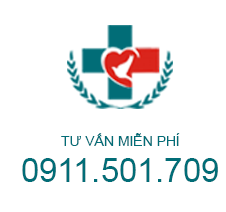
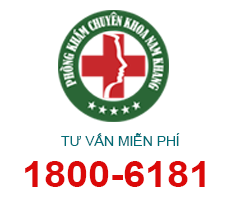
ok

Changed region(s): [[0.2478, 0.0283, 0.7743, 0.5943], [0.0929, 0.7358, 0.9912, 0.9057]]

diff --git a/public/js/desktop/right.js b/public/js/desktop/right.js
@@ -1,6 +1,6 @@
 // JavaScript Document
 
-document.writeln("<script type=\"text/javascript\" language=\"javascript\" src=\"http://localhost/cty_xuongkhophn.net/public/js/desktop/index.js\"></script>");
+document.writeln("<script type=\"text/javascript\" language=\"javascript\" src=\"http://www.phongkhamnamkhang.net/public/js/desktop/index.js\"></script>");
 $(function(){$("#sidebar").fix({float:'left',minStatue:false,skin:'green',durationTime:1000})});
 /**/
 document.writeln("<style>");
@@ -12,19 +12,19 @@ document.writeln("#sidebar ul li i{ display:inline-block; width:72px; height:72p
 document.writeln("#sidebar ul li i.top{ width:72px; height:72px; margin-top:0}");
 document.writeln("#sidebar ul li .ht{width:72px; height:72px; position:absolute; right:-350px; background:#00F; top:0px; opacity:0; display:none}");
 document.writeln("#sidebar ul li .ht_iphone,#sidebar ul li .ht_weixin{width:226px;height:217px;top:-73px}");
-document.writeln("#sidebar ul li .ht_iphone{ background:url(http://localhost/cty_xuongkhophn.net/public/images/global/advleft/dhh.png) no-repeat}");
-document.writeln("#sidebar ul li .ht_weixin{ background:url(http://localhost/cty_xuongkhophn.net/public/images/global/advleft/wxh.png) no-repeat; top:-83px}");
-document.writeln(".top1{ background:url(http://localhost/cty_xuongkhophn.net/public/images/global/advleft/top.png) no-repeat;}");
-document.writeln(".dx{ background:url(http://localhost/cty_xuongkhophn.net/public/images/global/advleft/dx.png) no-repeat center center;}");
-document.writeln(".dh{ background:url(http://localhost/cty_xuongkhophn.net/public/images/global/advleft/dh.png) no-repeat center center;}");
-document.writeln(".qq{ background:url(http://localhost/cty_xuongkhophn.net/public/images/global/advleft/qq.png) no-repeat center center}");
-document.writeln(".dt{ background:url(http://localhost/cty_xuongkhophn.net/public/images/global/advleft/dt.png) no-repeat center center}");
-document.writeln(".wx{ background:url(http://localhost/cty_xuongkhophn.net/public/images/global/advleft/wx.png) no-repeat center center}");
-document.writeln(".wb{ background:url(http://localhost/cty_xuongkhophn.net/public/images/global/advleft/wb.png) no-repeat center center}");
-document.writeln(".dt_s{ background:url(http://localhost/cty_xuongkhophn.net/public/images/global/advleft/dt_s.png) no-repeat center center; width:31px; height:41px}");
-document.writeln(".qq_s{ background:url(http://localhost/cty_xuongkhophn.net/public/images/global/advleft/qq_s.png) no-repeat center center; width:31px; height:41px}");
-document.writeln(".dx_s{ background:url(http://localhost/cty_xuongkhophn.net/public/images/global/advleft/dx_s.png) no-repeat center center; width:44px; height:38px}");
-document.writeln(".wb_s{ background:url(http://localhost/cty_xuongkhophn.net/public/images/global/advleft/wb_s.png) no-repeat center center; width:44px; height:36px}");
+document.writeln("#sidebar ul li .ht_iphone{ background:url(http://www.phongkhamnamkhang.net/public/images/global/advleft/dhh.png) no-repeat}");
+document.writeln("#sidebar ul li .ht_weixin{ background:url(http://www.phongkhamnamkhang.net/public/images/global/advleft/wxh.png) no-repeat; top:-83px}");
+document.writeln(".top1{ background:url(http://www.phongkhamnamkhang.net/public/images/global/advleft/top.png) no-repeat;}");
+document.writeln(".dx{ background:url(http://www.phongkhamnamkhang.net/public/images/global/advleft/dx.png) no-repeat center center;}");
+document.writeln(".dh{ background:url(http://www.phongkhamnamkhang.net/public/images/global/advleft/dh.png) no-repeat center center;}");
+document.writeln(".qq{ background:url(http://www.phongkhamnamkhang.net/public/images/global/advleft/qq.png) no-repeat center center}");
+document.writeln(".dt{ background:url(http://www.phongkhamnamkhang.net/public/images/global/advleft/dt.png) no-repeat center center}");
+document.writeln(".wx{ background:url(http://www.phongkhamnamkhang.net/public/images/global/advleft/wx.png) no-repeat center center}");
+document.writeln(".wb{ background:url(http://www.phongkhamnamkhang.net/public/images/global/advleft/wb.png) no-repeat center center}");
+document.writeln(".dt_s{ background:url(http://www.phongkhamnamkhang.net/public/images/global/advleft/dt_s.png) no-repeat center center; width:31px; height:41px}");
+document.writeln(".qq_s{ background:url(http://www.phongkhamnamkhang.net/public/images/global/advleft/qq_s.png) no-repeat center center; width:31px; height:41px}");
+document.writeln(".dx_s{ background:url(http://www.phongkhamnamkhang.net/public/images/global/advleft/dx_s.png) no-repeat center center; width:44px; height:38px}");
+document.writeln(".wb_s{ background:url(http://www.phongkhamnamkhang.net/public/images/global/advleft/wb_s.png) no-repeat center center; width:44px; height:36px}");
 document.writeln("");
 document.writeln("#sidebar ul li .sidebox{position:absolute;width:72px;height:72px;top:0;left:0px;transition:all 0.3s;background:#6699cd;opacity:1;filter:Alpha(opacity=100);color:#fff;overflow:hidden;}");
 document.writeln("#sidebar ul li span{ position:relative;left:8px;top:15px;}");
@@ -33,18 +33,18 @@ document.writeln("");
 document.writeln("<div id=\"sidebar\">");
 document.writeln("    <ul>");
 document.writeln("      <li class=\"first\"><a href=\"Javascript:void(0)\" target=\"_self\"><i class=\"top1\" ></i></a></li>");
-document.writeln("      <li><a href=\"http://drt.zoosnet.net/LR/Chatpre.aspx?id=DRT84001515&lng=en\" target=\"_blank\">");
+document.writeln("      <li><a href=\"http://swt.phongkham193.com/LR/Chatpre.aspx?id=MFI63108226&cid=1489654963660812714370&lng=en\" target=\"_blank\">");
 document.writeln("        <div class=\"sidebox\"><i class=\"dx\" name=\"dx\"></i><span style=\"font-size:13px\">Tư vấn<br>trực tuyến</span></div>");
 document.writeln("        </a></li>");
-document.writeln("      <li><a href=\"tel:0911.501.709\" target=\"_self\"><i class=\"dh js_ht\"></i>");
+document.writeln("      <li><a href=\"tel:18006181\" target=\"_self\"><i class=\"dh js_ht\"></i>");
 document.writeln("        <div class=\"ht ht_iphone\"></div>");
 document.writeln("        </a></li>");
 
-document.writeln("      <li><a href=\"http://khoaxuongkhop.net/dia-chi-phong-kham\" target=\"_blank\">");
+document.writeln("      <li><a href=\"http://phongkhamnamkhang.net/dia-chi-phong-kham\" target=\"_blank\">");
 document.writeln("        <div class=\"sidebox\"><i class=\"dt\" name=\"dt\"></i><span style=\"font-size:13px\">Địa chỉ<br>phòng khám</span></div>");
 document.writeln("        </a></li>");
 
-document.writeln("      <li><a href=\"http://drt.zoosnet.net/LR/Chatpre.aspx?id=DRT84001515&lng=en\" target=\"_blank\">");
+document.writeln("      <li><a href=\"http://swt.phongkham193.com/LR/Chatpre.aspx?id=MFI63108226&cid=1489654963660812714370&lng=en\" target=\"_blank\">");
 document.writeln("        <div class=\"sidebox\"><i class=\"wb\" name=\"wb\"></i><span style=\"font-size:13px\">Đặt hẹn<br>trực tuyến</span></div>");
 document.writeln("        </a></li>");
 document.writeln("    </ul>");

diff --git a/resources/views/layout/desktop.blade.php b/resources/views/layout/desktop.blade.php
@@ -24,6 +24,7 @@
 	<script type="text/javascript" src="{{ asset('public/js/global/slick/slick.js') }}"></script>
 	@yield('js')
 	<script type="text/javascript" src="{{ asset('public/js/desktop/desktop.js') }}"></script>
+	<script type="text/javascript" src="{{ asset('public/js/desktop/right.js') }}"></script>
 </head>
 <body>
     <header>
